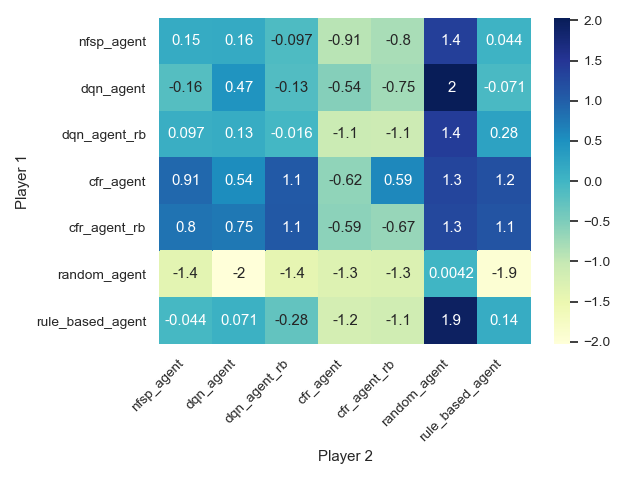
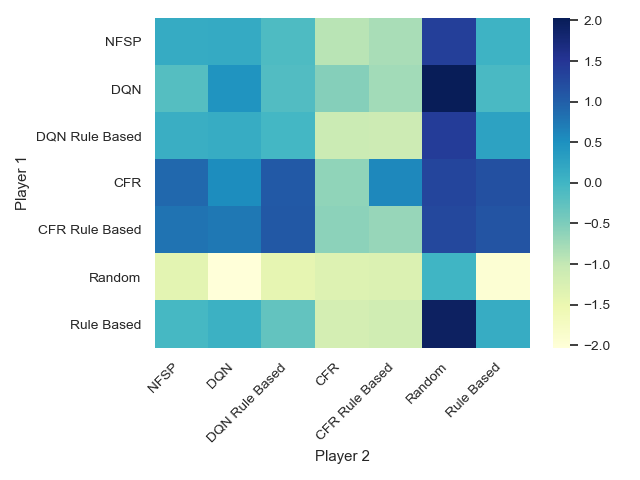
change eval keys

diff --git a/evaluate.py b/evaluate.py
@@ -131,13 +131,13 @@ random_agent = RandomAgent(action_num=env.action_num)
 
 # agents = [nfsp_agent, dqn_agent, dqn_agent_rb, cfr_agent, cfr_agent_rb, random_agent, rule_based_agent]
 agents_dict = {
-    "nfsp_agent": nfsp_agent,
-    "dqn_agent": dqn_agent,
-    "dqn_agent_rb": dqn_agent_rb,
-    "cfr_agent": cfr_agent,
-    "cfr_agent_rb": cfr_agent_rb,
-    "random_agent": random_agent,
-    "rule_based_agent": rule_based_agent
+    "NFSP": nfsp_agent,
+    "DQN": dqn_agent,
+    "DQN Rule Based": dqn_agent_rb,
+    "CFR": cfr_agent,
+    "CFR Rule Based": cfr_agent_rb,
+    "Random": random_agent,
+    "Rule Based": rule_based_agent
 }
 
 results_dict = collections.defaultdict(dict)
